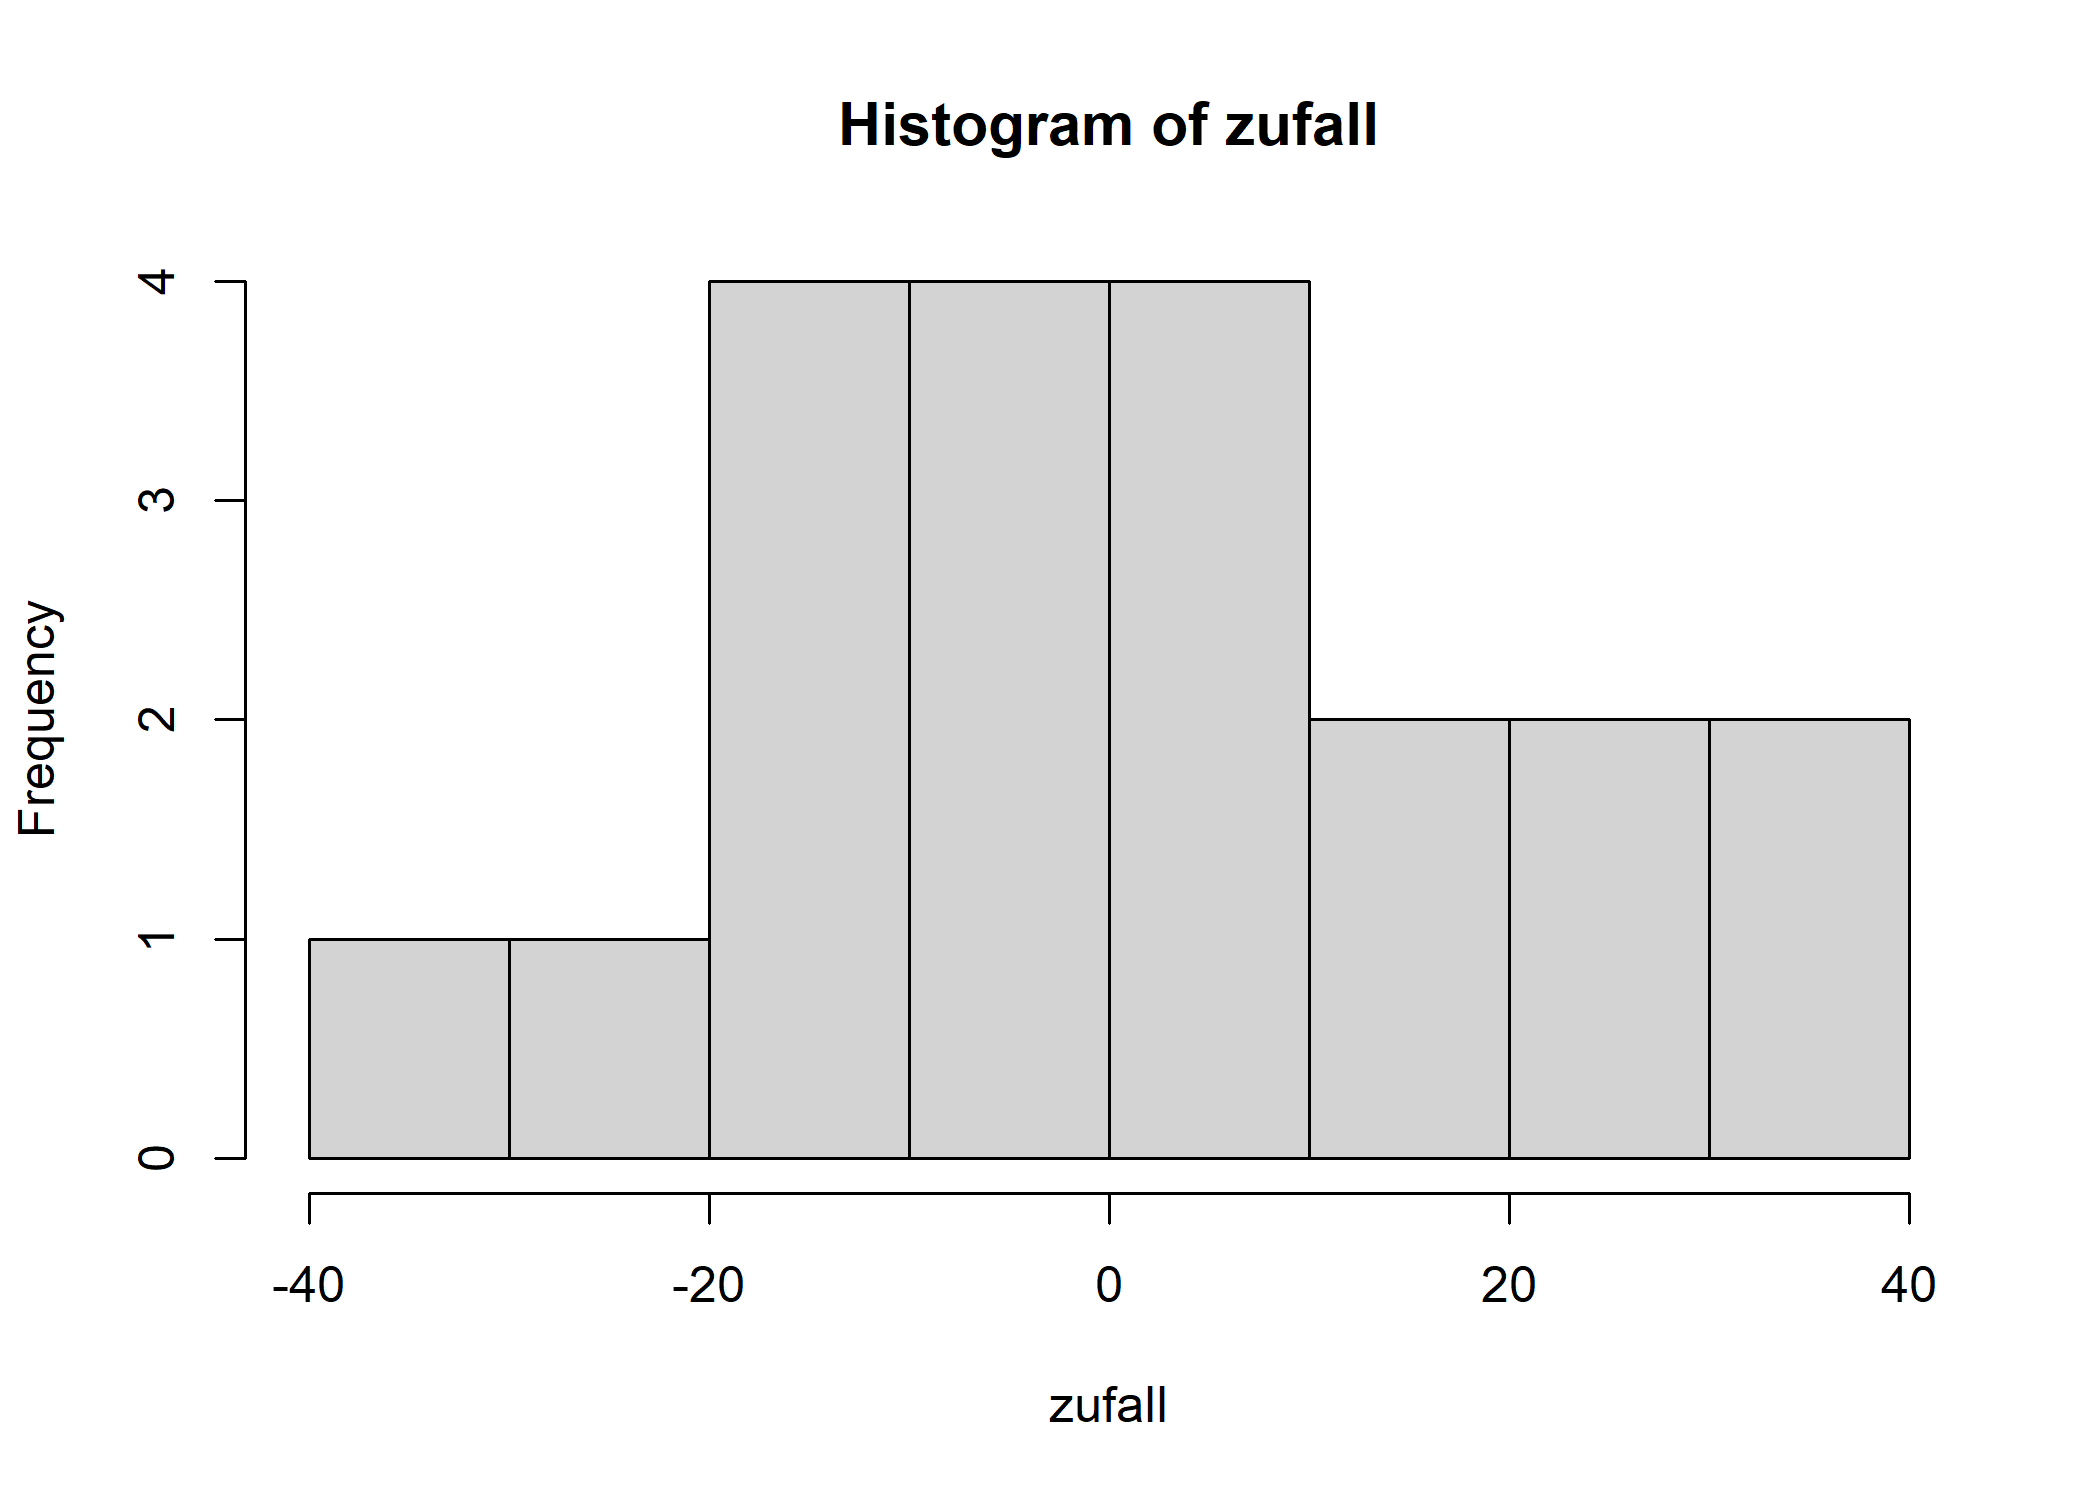
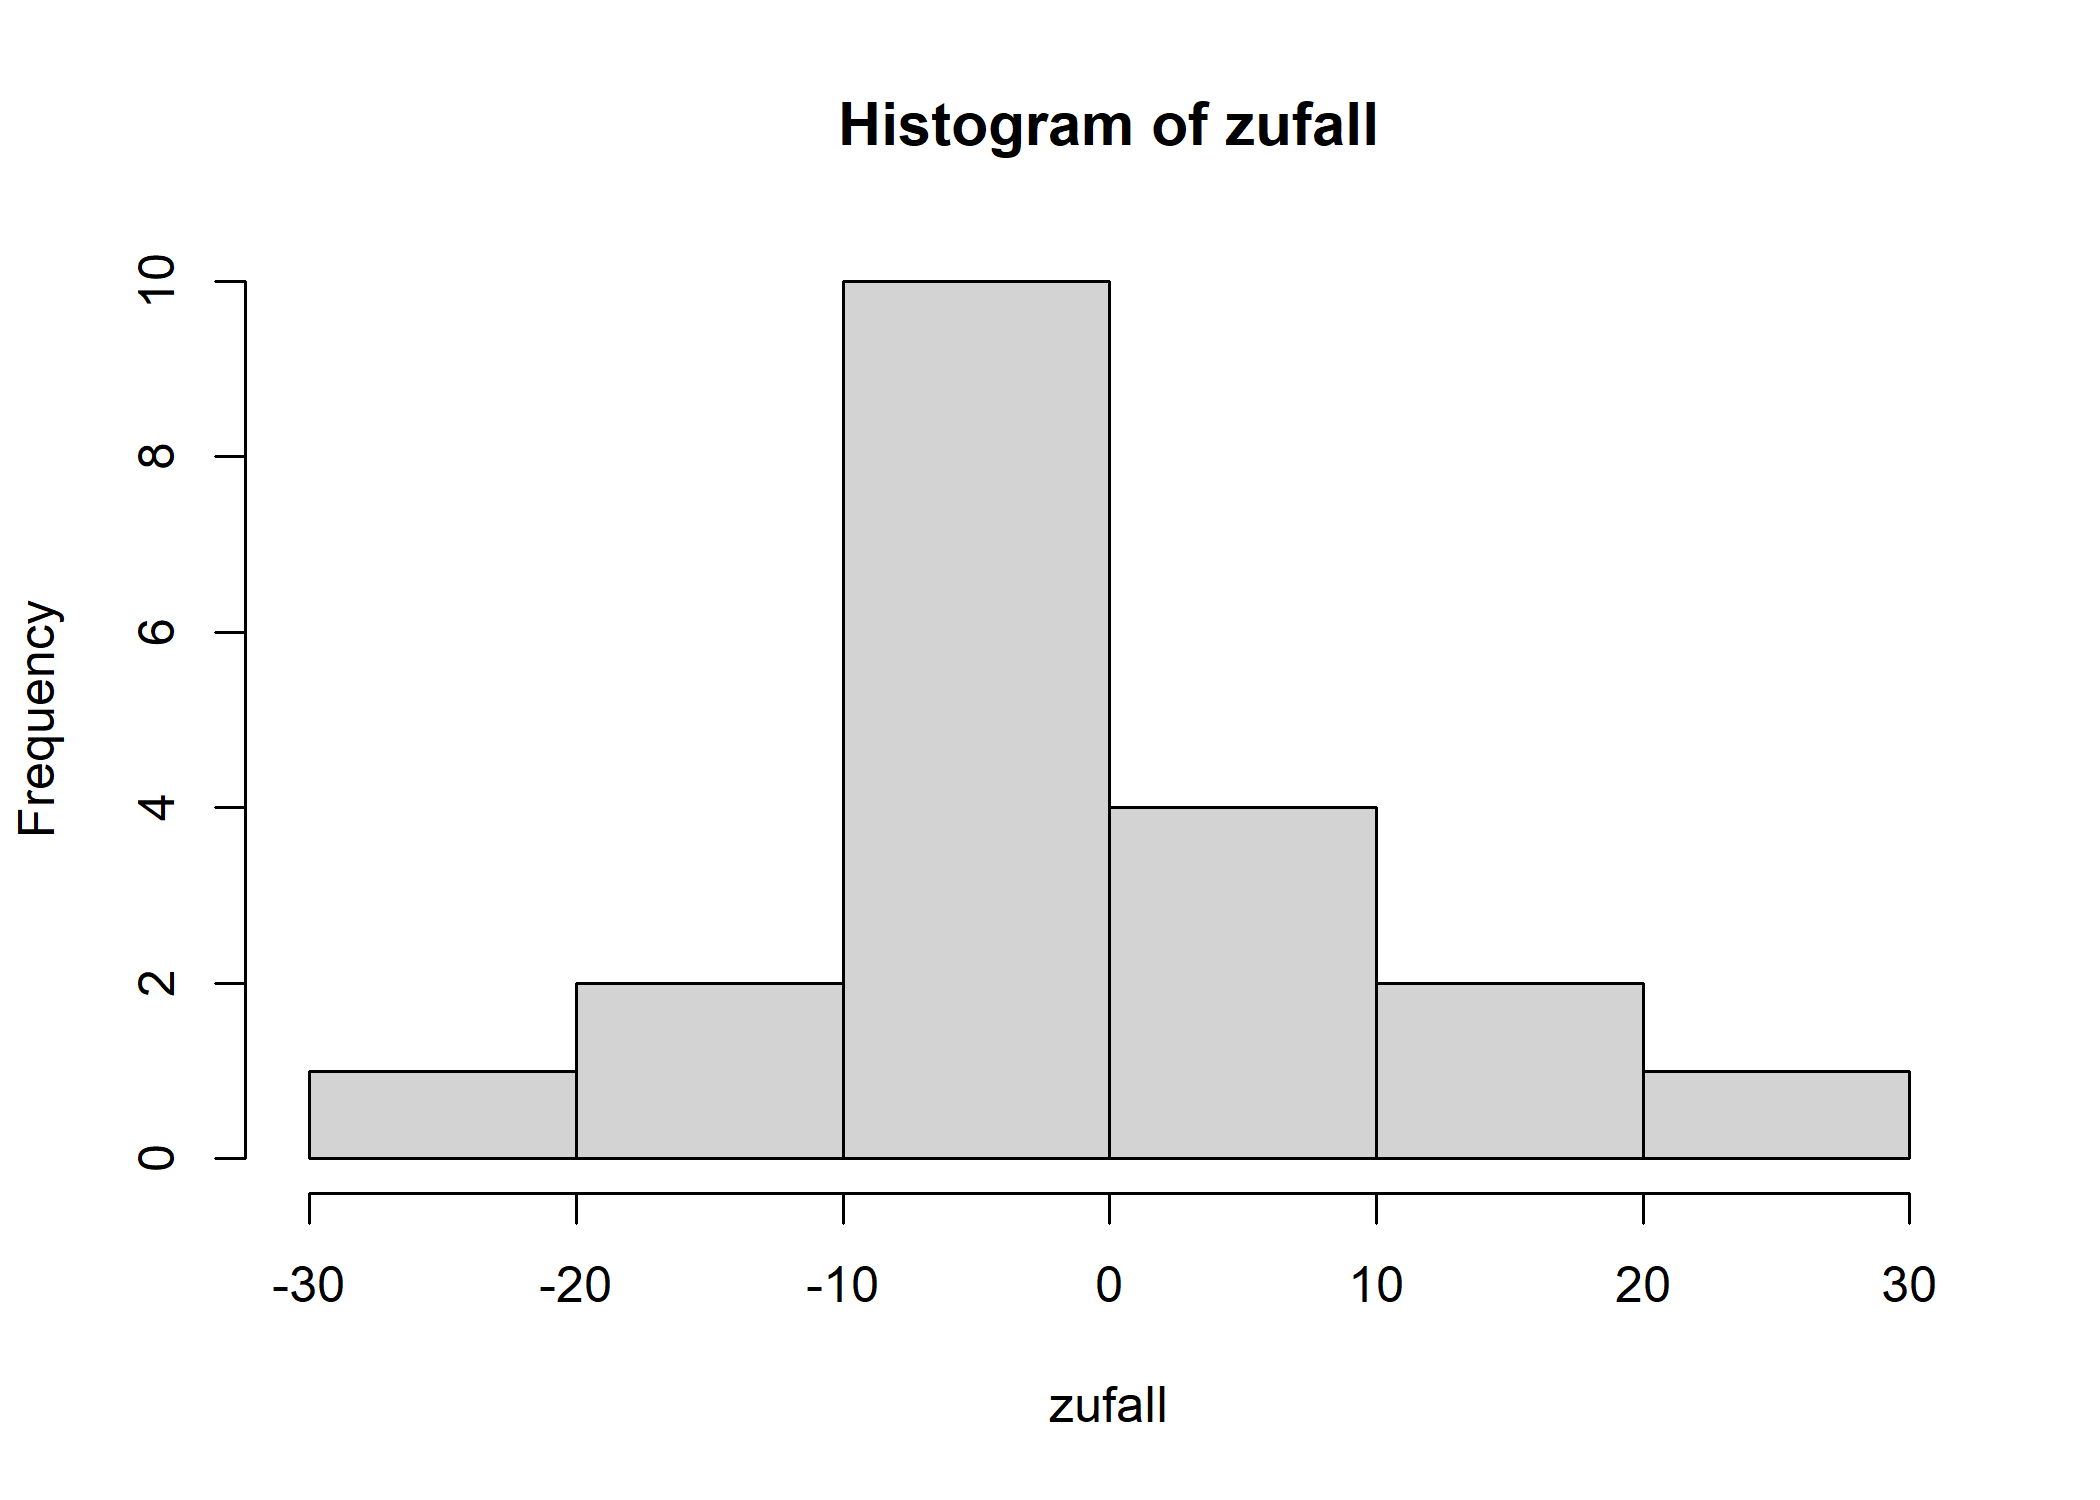
.

diff --git a/docs/m2_home.html b/docs/m2_home.html
@@ -226,7 +226,7 @@ window.Quarto = {
     <div>
     <div class="quarto-title-meta-heading">Published</div>
     <div class="quarto-title-meta-contents">
-      <p class="date">18.03.2026</p>
+      <p class="date">08.04.2026</p>
     </div>
   </div>
   
@@ -294,7 +294,7 @@ window.Quarto = {
 <ol type="1">
 <li>R ist reflexiv, d.h., für alle u <span class="math inline">\(\in\)</span> U gilt: u <span class="math inline">\(\circ\)</span> u.</li>
 <li>R ist symmetrisch, d.h., für alle u, v<span class="math inline">\(\in\)</span> U gilt: u <span class="math inline">\(\circ\)</span> v → v <span class="math inline">\(\circ\)</span> u.</li>
-<li>R ist transitiv, d.h., für alle u, v, w <span class="math inline">\(\in\)</span> U gilt: (u <span class="math inline">\(\circ\)</span> v &amp; v<span class="math inline">\(\circ\)</span>w) → u<span class="math inline">\(\circ\)</span>w.<br>
+<li>R ist transitiv, d.h., für alle u, v, w <span class="math inline">\(\in\)</span> U gilt: (u <span class="math inline">\(\circ\)</span> v &amp; v <span class="math inline">\(\circ\)</span> w) → u <span class="math inline">\(\circ\)</span> w.<br>
 Für die Äquivalenzrelation verwenden wir das Zeichen ≈.</li>
 </ol>
 <p><strong>Merkmals-xx</strong></p>
@@ -424,18 +424,18 @@ Menge von Objekten in R, durch Pfeil definiert, mit Funktion c=combine zusammeng
 <span id="cb16-2"><a href="#cb16-2" aria-hidden="true" tabindex="-1"></a><span class="fu">summary</span>(zufall)</span></code></pre></div><button title="Copy to Clipboard" class="code-copy-button"><i class="bi"></i></button></div>
 </details>
 <div class="cell-output cell-output-stdout">
-<pre><code>    Min.  1st Qu.   Median     Mean  3rd Qu.     Max. 
--39.8523 -12.9941   0.7856   2.2117  15.8710  34.8551 </code></pre>
+<pre><code>   Min. 1st Qu.  Median    Mean 3rd Qu.    Max. 
+-25.612  -6.543  -1.463  -1.197   5.151  23.543 </code></pre>
 </div>
 <details open="" class="code-fold">
 <summary>R-Code anzeigen</summary>
 <div class="code-copy-outer-scaffold"><div class="sourceCode cell-code" id="cb18"><pre class="sourceCode r code-with-copy"><code class="sourceCode r"><span id="cb18-1"><a href="#cb18-1" aria-hidden="true" tabindex="-1"></a>zufall</span></code></pre></div><button title="Copy to Clipboard" class="code-copy-button"><i class="bi"></i></button></div>
 </details>
 <div class="cell-output cell-output-stdout">
-<pre><code> [1]  34.855119  19.749675  28.214741 -39.852290   9.643346 -13.071432
- [7] -16.824414  -2.274229   8.901255 -24.674706   3.845484  -8.809507
-[13]  25.159324  14.578166 -12.968378  -5.636343 -15.645554  -2.645155
-[19]   9.344978  32.343795</code></pre>
+<pre><code> [1]   9.3455006 -25.6120203  -5.8878384  -9.0855395  16.5518789  10.2750621
+ [7]  -0.3313140  -2.7074972  -2.9737307  -8.5085319  -1.2033874  -4.8419002
+[13] -17.9097794   4.3214579  23.5425890  -1.1900601 -14.0341757   7.6376427
+[19]  -1.7226031   0.4030482</code></pre>
 </div>
 </div>
 <p><strong>Histogramm</strong><br>
@@ -471,8 +471,71 @@ Ausreißer weiter entfernt, durch Kreis gekennzeichnet</p>
 </div>
 </div>
 </div>
+<p><strong>Zufallsvariablen</strong></p>
+<ul>
+<li><p>diskret: nur einzele abgegrenzte Werte möglich, zB 1,2,..,6 für die Augen auf einen Würfel</p></li>
+<li><p>stetig: unendlich viele Zwischenwerte</p></li>
+</ul>
+<p>bei diskreten Variablen -&gt; Wahrscheinlichkeitsfunktion<br>
+</p>
+<p>bei stetigen Variablen -&gt; Dichtefunktion, Höhe des Graphen gibt Wahrscheinlichkeitsdichte an<br>
+</p>
+<p>Wahrscheinlichkeit für einzelnen exakten Punkt bei stetigen Variable gleich Null, sinnvolle Aussagen nur über Intervalle, Wahrscheinlichkeit entspricht Fläche unter Graphen (Berechnung durch Integral)<br>
+</p>
+<p>gesamte Fläche Dichtefunktion == 1 = 100%<br>
+</p>
+<p>Bsp. Dichtefunktion</p>
+<div class="cell">
+<details open="" class="code-fold">
+<summary>R-Code anzeigen</summary>
+<div class="code-copy-outer-scaffold"><div class="sourceCode cell-code" id="cb22"><pre class="sourceCode r code-with-copy"><code class="sourceCode r"><span id="cb22-1"><a href="#cb22-1" aria-hidden="true" tabindex="-1"></a><span class="fu">library</span>(ggplot2)</span>
+<span id="cb22-2"><a href="#cb22-2" aria-hidden="true" tabindex="-1"></a></span>
+<span id="cb22-3"><a href="#cb22-3" aria-hidden="true" tabindex="-1"></a><span class="co"># Daten für die Linien definieren</span></span>
+<span id="cb22-4"><a href="#cb22-4" aria-hidden="true" tabindex="-1"></a><span class="co"># Wir erstellen Punkte für die Sprünge bei 0 und 6</span></span>
+<span id="cb22-5"><a href="#cb22-5" aria-hidden="true" tabindex="-1"></a>df <span class="ot">&lt;-</span> <span class="fu">data.frame</span>(</span>
+<span id="cb22-6"><a href="#cb22-6" aria-hidden="true" tabindex="-1"></a>  <span class="at">x =</span> <span class="fu">c</span>(<span class="sc">-</span><span class="dv">1</span>, <span class="dv">0</span>, <span class="dv">0</span>, <span class="dv">6</span>, <span class="dv">6</span>, <span class="dv">7</span>),</span>
+<span id="cb22-7"><a href="#cb22-7" aria-hidden="true" tabindex="-1"></a>  <span class="at">y =</span> <span class="fu">c</span>(<span class="dv">0</span>, <span class="dv">0</span>, <span class="dv">1</span><span class="sc">/</span><span class="dv">6</span>, <span class="dv">1</span><span class="sc">/</span><span class="dv">6</span>, <span class="dv">0</span>, <span class="dv">0</span>)</span>
+<span id="cb22-8"><a href="#cb22-8" aria-hidden="true" tabindex="-1"></a>)</span>
+<span id="cb22-9"><a href="#cb22-9" aria-hidden="true" tabindex="-1"></a></span>
+<span id="cb22-10"><a href="#cb22-10" aria-hidden="true" tabindex="-1"></a><span class="co"># Plot erstellen</span></span>
+<span id="cb22-11"><a href="#cb22-11" aria-hidden="true" tabindex="-1"></a><span class="fu">ggplot</span>(df, <span class="fu">aes</span>(<span class="at">x =</span> x, <span class="at">y =</span> y)) <span class="sc">+</span></span>
+<span id="cb22-12"><a href="#cb22-12" aria-hidden="true" tabindex="-1"></a>  <span class="co"># Die blaue Linie der Dichtefunktion</span></span>
+<span id="cb22-13"><a href="#cb22-13" aria-hidden="true" tabindex="-1"></a>  <span class="fu">geom_line</span>(<span class="at">color =</span> <span class="st">"blue"</span>, <span class="at">size =</span> <span class="dv">1</span>) <span class="sc">+</span></span>
+<span id="cb22-14"><a href="#cb22-14" aria-hidden="true" tabindex="-1"></a>  <span class="co"># Die Fläche unter der Kurve (nur zwischen 0 und 6)</span></span>
+<span id="cb22-15"><a href="#cb22-15" aria-hidden="true" tabindex="-1"></a>  <span class="fu">geom_ribbon</span>(<span class="at">data =</span> <span class="fu">subset</span>(df, x <span class="sc">&gt;=</span> <span class="dv">0</span> <span class="sc">&amp;</span> x <span class="sc">&lt;=</span> <span class="dv">6</span>), </span>
+<span id="cb22-16"><a href="#cb22-16" aria-hidden="true" tabindex="-1"></a>              <span class="fu">aes</span>(<span class="at">ymin =</span> <span class="dv">0</span>, <span class="at">ymax =</span> y), </span>
+<span id="cb22-17"><a href="#cb22-17" aria-hidden="true" tabindex="-1"></a>              <span class="at">fill =</span> <span class="st">"blue"</span>, <span class="at">alpha =</span> <span class="fl">0.1</span>) <span class="sc">+</span></span>
+<span id="cb22-18"><a href="#cb22-18" aria-hidden="true" tabindex="-1"></a>  <span class="co"># Styling</span></span>
+<span id="cb22-19"><a href="#cb22-19" aria-hidden="true" tabindex="-1"></a>  <span class="fu">scale_y_continuous</span>(<span class="at">breaks =</span> <span class="fu">c</span>(<span class="dv">0</span>, <span class="dv">1</span><span class="sc">/</span><span class="dv">6</span>), <span class="at">labels =</span> <span class="fu">c</span>(<span class="st">"0"</span>, <span class="st">"1/6"</span>)) <span class="sc">+</span></span>
+<span id="cb22-20"><a href="#cb22-20" aria-hidden="true" tabindex="-1"></a>  <span class="fu">scale_x_continuous</span>(<span class="at">breaks =</span> <span class="sc">-</span><span class="dv">1</span><span class="sc">:</span><span class="dv">7</span>) <span class="sc">+</span></span>
+<span id="cb22-21"><a href="#cb22-21" aria-hidden="true" tabindex="-1"></a>  <span class="fu">coord_cartesian</span>(<span class="at">ylim =</span> <span class="fu">c</span>(<span class="sc">-</span><span class="fl">0.02</span>, <span class="fl">0.25</span>)) <span class="sc">+</span></span>
+<span id="cb22-22"><a href="#cb22-22" aria-hidden="true" tabindex="-1"></a>  <span class="fu">labs</span>(<span class="at">title =</span> <span class="fu">expression</span>(<span class="fu">paste</span>(<span class="st">"Dichtefunktion "</span>, <span class="fu">f</span>(x) <span class="sc">==</span> <span class="dv">1</span><span class="sc">/</span><span class="dv">6</span>, <span class="st">" für "</span>, <span class="dv">0</span> <span class="sc">&lt;=</span> x, <span class="st">" "</span> <span class="sc">&lt;=</span> <span class="dv">6</span>)),</span>
+<span id="cb22-23"><a href="#cb22-23" aria-hidden="true" tabindex="-1"></a>       <span class="at">x =</span> <span class="st">"x"</span>,</span>
+<span id="cb22-24"><a href="#cb22-24" aria-hidden="true" tabindex="-1"></a>       <span class="at">y =</span> <span class="st">"f(x)"</span>) <span class="sc">+</span></span>
+<span id="cb22-25"><a href="#cb22-25" aria-hidden="true" tabindex="-1"></a>  <span class="fu">theme_minimal</span>()</span></code></pre></div><button title="Copy to Clipboard" class="code-copy-button"><i class="bi"></i></button></div>
+</details>
+<div class="cell-output-display">
+<div>
+<figure class="figure">
+<p><img src="m2_home_files/figure-html/unnamed-chunk-12-1.png" class="img-fluid figure-img" width="1050"></p>
+</figure>
+</div>
+</div>
+</div>
+<section id="verteilungen" class="level4">
+<h4 class="anchored" data-anchor-id="verteilungen">Verteilungen</h4>
+<ul>
+<li>Gleichverteilung/Rechteckverteilung: gleiche Breiter der Intervalle = gleiche Wahrscheinlichkeit</li>
+<li>Normalverteilung: Gauß’sche Glockenkurve</li>
+</ul>
+</section>
+<section id="erwartungswert" class="level4">
+<h4 class="anchored" data-anchor-id="erwartungswert">Erwartungswert</h4>
+<p>y = f(x)</p>
+<p><span class="math inline">\(E(x) = \int x \times f(x) \, dx\)</span></p>
 
 
+</section>
 </section>
 
 <div class="content-block" style="padding-top: 20px;">

diff --git a/docs/start.html b/docs/start.html
@@ -221,7 +221,7 @@ pre > code.sourceCode > span > a:first-child::before { text-decoration: underlin
 <li>We create data, saved in <code>x</code> and <code>y</code></li>
 <li>We create the plot with the <code>plt.plot</code> function.</li>
 </ul>
-<div id="5fac78e4" class="cell" data-execution_count="1">
+<div id="c018c125" class="cell" data-execution_count="1">
 <details class="code-fold">
 <summary>R-Code anzeigen</summary>
 <div class="code-copy-outer-scaffold"><div class="sourceCode cell-code" id="cb1"><pre class="sourceCode python code-with-copy"><code class="sourceCode python"><span id="cb1-1"><a href="#cb1-1" aria-hidden="true" tabindex="-1"></a><span class="im">import</span> matplotlib.pyplot <span class="im">as</span> plt</span>

diff --git a/docs/index.html b/docs/index.html
@@ -230,7 +230,7 @@ window.Quarto = {
 
 <div class="quarto-listing quarto-listing-container-grid" id="listing-listing">
 <div class="list grid quarto-listing-cols-3">
-<div class="g-col-1" data-index="0" data-listing-file-modified-sort="1773828486988" data-listing-reading-time-sort="3" data-listing-word-count-sort="565">
+<div class="g-col-1" data-index="0" data-listing-file-modified-sort="1775613252185" data-listing-reading-time-sort="5" data-listing-word-count-sort="906">
 <a href="./m2_home.html" class="quarto-grid-link">
 <div class="quarto-grid-item card h-100 card-left">
 <p class="card-img-top">
